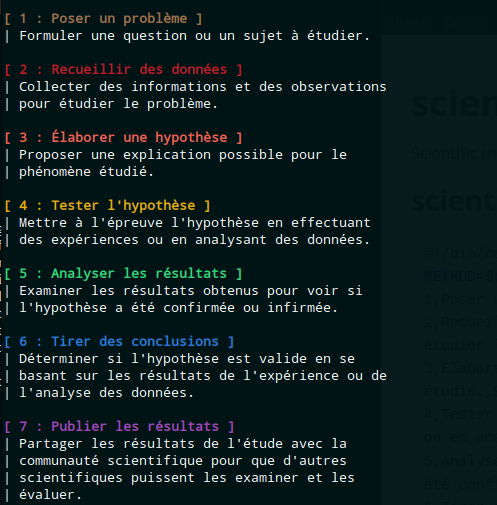
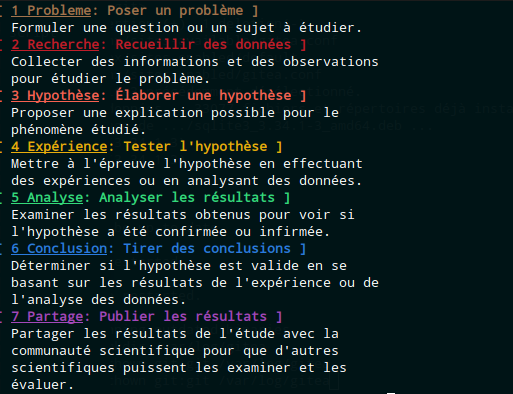
clean and enhance a bit

Changed region(s): [[0.0, 0.0, 0.7847, 1.0]]

diff --git a/README.md b/README.md
@@ -8,24 +8,28 @@ Scientific method helpers, and stuff i make mainly for my niece and I.
 ```bash
 #!/bin/bash
 METHOD=$(cat << 'EOF'
-1,Poser un problème,Formuler une question ou un sujet à étudier.,33
-2,Recueillir des données,Collecter des informations et des observations pour étudier le problème.,31
-3,Élaborer une hypothèse,Proposer une explication possible pour le phénomène étudié.,91
-4,Tester l'hypothèse,Mettre à l'épreuve l'hypothèse en effectuant des expériences ou en analysant des données.,93
-5,Analyser les résultats,Examiner les résultats obtenus pour voir si l'hypothèse a été confirmée ou infirmée.,92
-6,Tirer des conclusions,Déterminer si l'hypothèse est valide en se basant sur les résultats de l'expérience ou de l'analyse des données.,94
-7,Publier les résultats,Partager les résultats de l'étude avec la communauté scientifique pour que d'autres scientifiques puissent les examiner et les évaluer.,35
+1,Probleme,Poser un problème,Formuler une question ou un sujet à étudier.,33
+2,Recherche,Recueillir des données,Collecter des informations et des observations pour étudier le problème.,31
+3,Hypothèse,Élaborer une hypothèse,Proposer une explication possible pour le phénomène étudié.,91
+4,Expérience,Tester l'hypothèse,Mettre à l'épreuve l'hypothèse en effectuant des expériences ou en analysant des données.,93
+5,Analyse,Analyser les résultats,Examiner les résultats obtenus pour voir si l'hypothèse a été confirmée ou infirmée.,92
+6,Conclusion,Tirer des conclusions,Déterminer si l'hypothèse est valide en se basant sur les résultats de l'expérience ou de l'analyse des données.,94
+7,Partage,Publier les résultats,Partager les résultats de l'étude avec la communauté scientifique pour que d'autres scientifiques puissent les examiner et les évaluer.,35
 EOF
 )
+FMT_U=$(tput smul)
+FMT_NU=$(tput rmul)
+FMT_BD=$(tput bold)
+FMT_RST=$(tput sgr0)
 IFS=$','
-while read etape titre desc color;
+while read ETAPE MOTCLE TITRE DESC COLOR;
 do
-echo -e "\e["$color"m"
-echo $(tput bold)"[ "$etape" : "$titre" ]"$(tput sgr0)
+COL=$(echo -e "\e["${COLOR}"m")
+echo ${COL}${FMT_BD}"[ "${FMT_U}${ETAPE}" "${MOTCLE}${FMT_NU}": "${TITRE}" ]"${FMT_RST}
 IFS=$'\n'
-foldesc=$(echo $desc | fold -s -w 50)
-for i in $foldesc; do 
-	echo "| $i"
+FOLDESC=$(echo ${DESC} | fold -s -w 50)
+for i in ${FOLDESC}; do 
+	echo "| ${i}"
 done
 IFS=$','
 done <<< $METHOD
